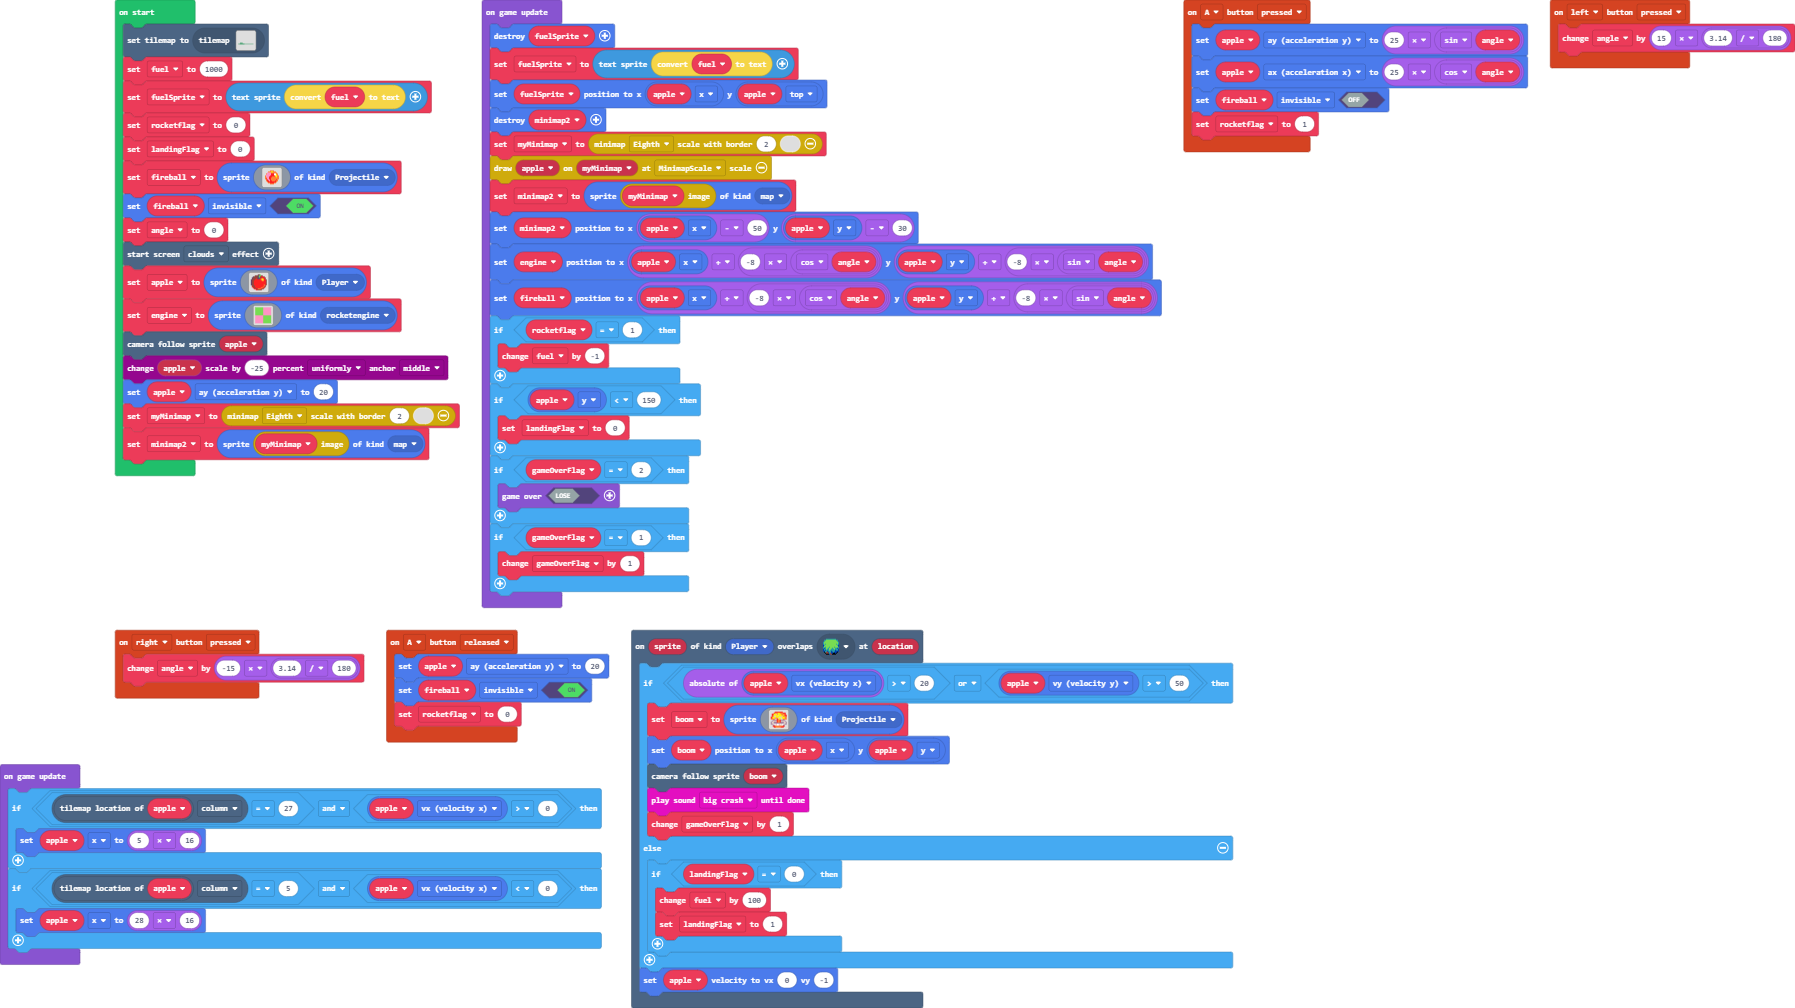
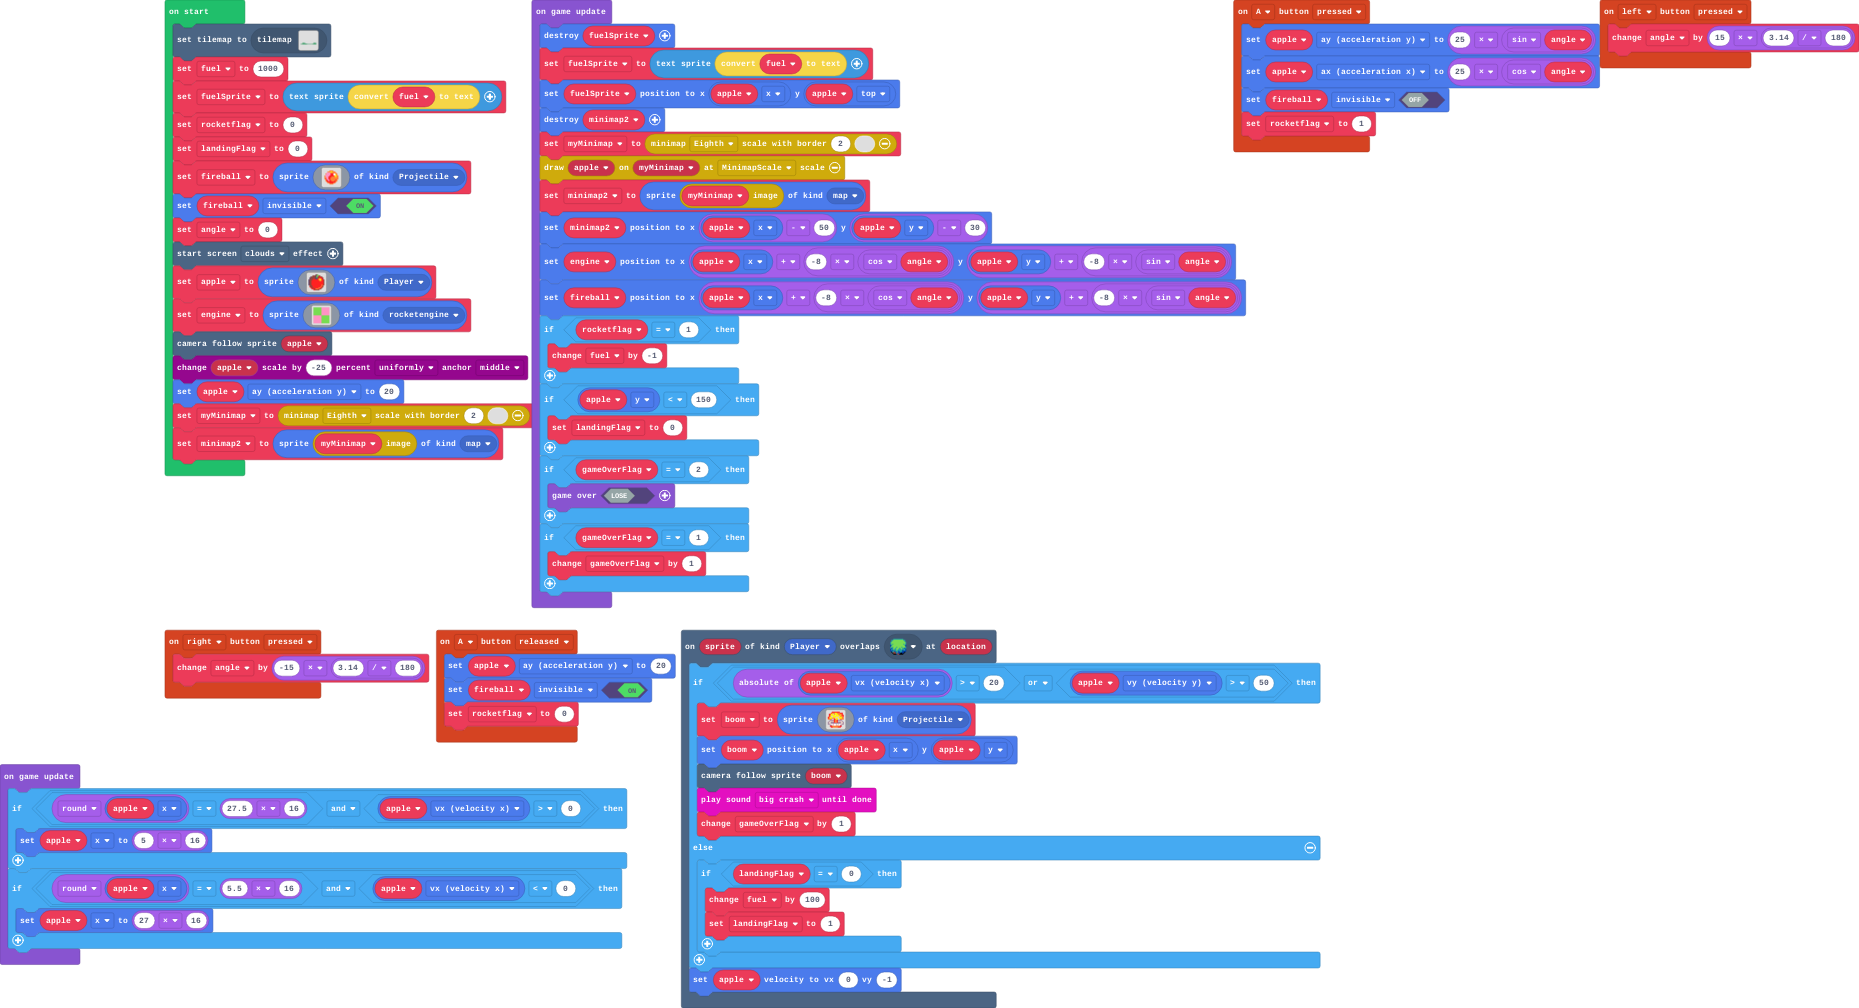
still working on wrapping

diff --git a/main.ts b/main.ts
@@ -136,10 +136,10 @@ game.onUpdate(function () {
     }
 })
 game.onUpdate(function () {
-    if (apple.tilemapLocation().column == 27 && apple.vx > 0) {
+    if (Math.round(apple.x) == 27.5 * 16 && apple.vx > 0) {
         apple.x = 5 * 16
     }
-    if (apple.tilemapLocation().column == 5 && apple.vx < 0) {
-        apple.x = 28 * 16
+    if (Math.round(apple.x) == 5.5 * 16 && apple.vx < 0) {
+        apple.x = 27 * 16
     }
 })
